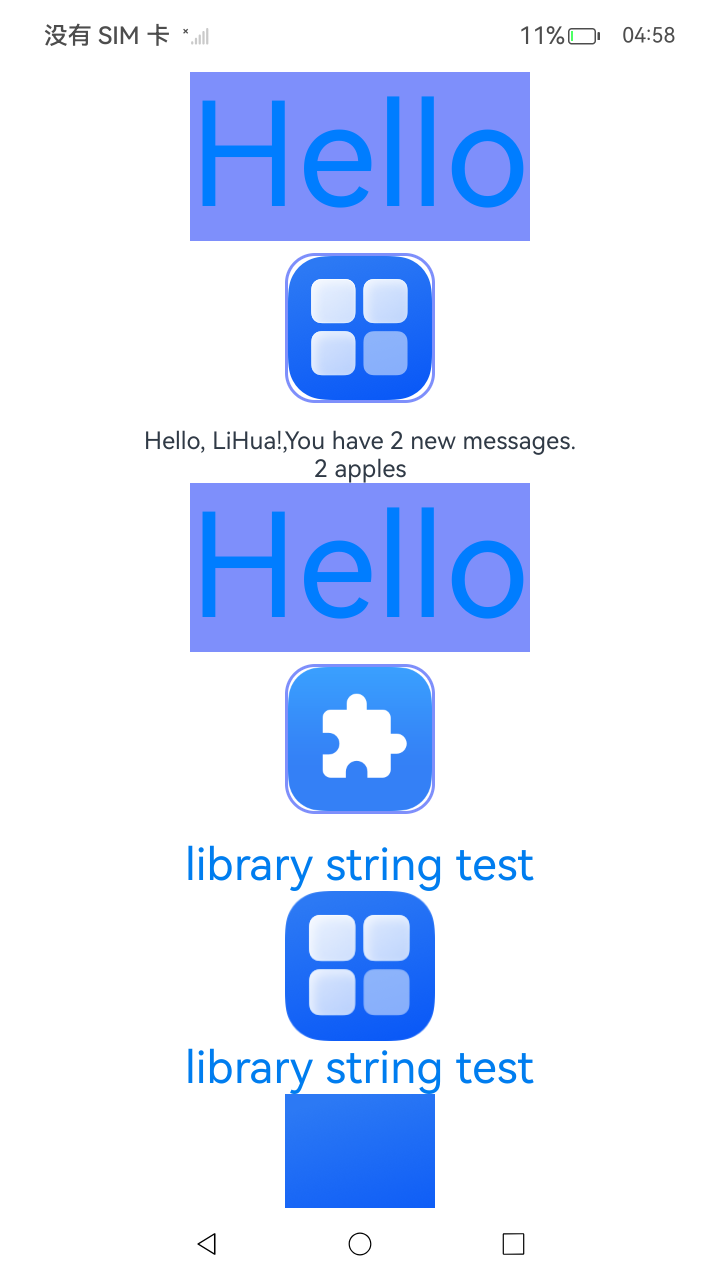
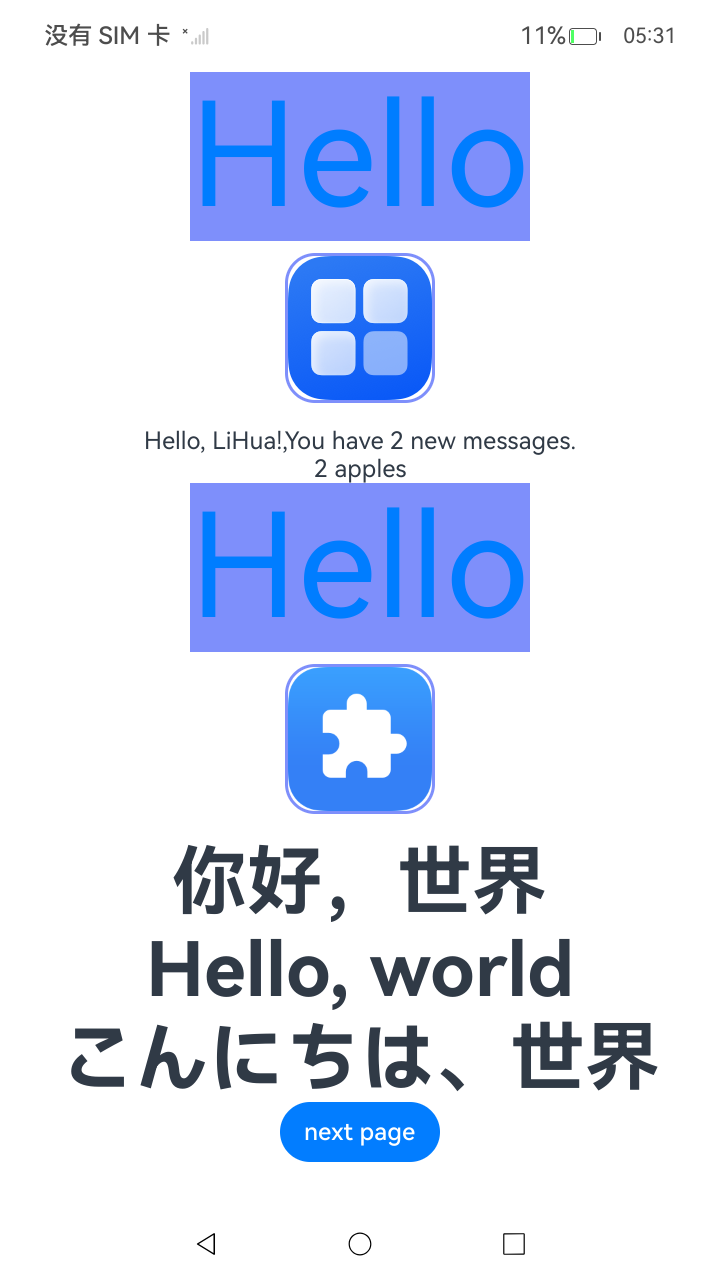
资源管理sample修改

diff --git a/code/DocsSample/ResourceManagement/ResourceCategoriesAndAccess/ohosTest.md b/code/DocsSample/ResourceManagement/ResourceCategoriesAndAccess/ohosTest.md
@@ -2,10 +2,11 @@
 
 ## 用例表
 
-| 测试功能        | 预置条件     | 输入   | 预期输出       | 是否自动 | 测试结果 |
-|-------------| ------------ |------|------------| -------- | -------- |
-| 拉起应用        | 设备正常运行 |      | 成功拉起应用     | 是       | Pass     |
-| 访问单HAP包应用资源 | 位于主页     |      | 显示HAP包应用资源 | 是       | Pass     |
-| 访问跨HSP包应用资源 | 位于主页     |      | 显示HSP包应用资源 | 是       | Pass     |
-| 访问系统资源      | 位于主页     |      | 显示系统资源     | 是       | Pass     |
-| 访问指定配置的资源   | 位于主页     | 上滑屏幕 | 显示指定配置的资源  | 是       | Pass     |
+| 测试功能        | 预置条件   | 输入            | 预期输出       | 是否自动 | 测试结果 |
+|-------------|--------|---------------|------------| -------- | -------- |
+| 拉起应用        | 设备正常运行 |               | 成功拉起应用     | 是       | Pass     |
+| 访问单HAP包应用资源 | 位于主页   |               | 显示HAP包应用资源 | 是       | Pass     |
+| 访问系统资源      | 位于主页   |               | 显示系统资源     | 是       | Pass     |
+| 访问指定配置的资源   | 位于主页   |               | 显示指定配置的资源  | 是       | Pass     |
+| 主页点击按钮      | 位于主页   | 点击next page按钮 | 跳转到第二页     | 是       | Pass     |
+| 访问跨HSP包应用资源 | 位于第二页  |               | 显示HSP包应用资源 | 是       | Pass     |

diff --git a/code/DocsSample/ResourceManagement/ResourceCategoriesAndAccess/README_zh.md b/code/DocsSample/ResourceManagement/ResourceCategoriesAndAccess/README_zh.md
@@ -21,7 +21,8 @@ entry/src/
 |---main
 │   |---ets
 │   │   |---pages
-│   │       |---Index.ets                        // 构建页面，显示字符串、图标等资源
+│   │       |---Index.ets                        // 构建页面，显示单HAP包、系统资源
+│   │       |---Second.ets                       // 构建页面，显示跨HSP包资源
 │   |---resources                                // 资源文件目录
 │       |---base
 │       │   |---element
